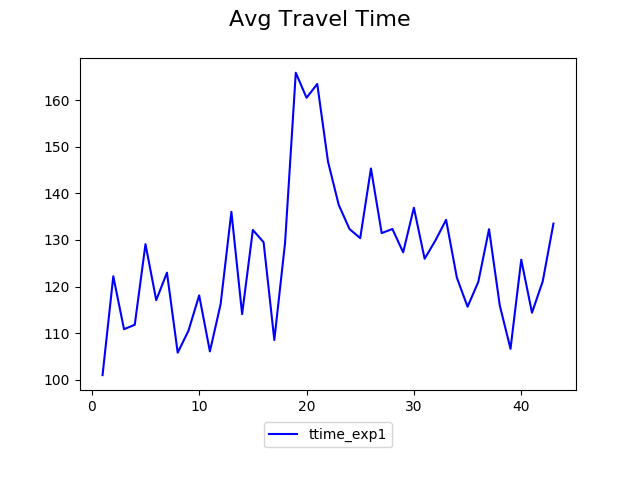
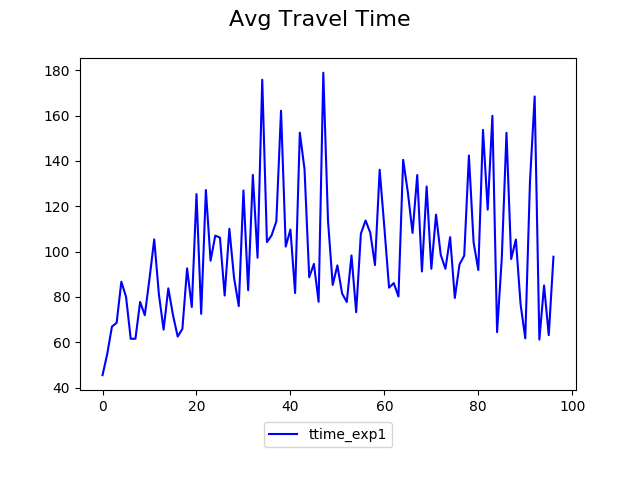
Created comparison plot for deepq1 and adaptive_deepq1

diff --git a/stats/stats_plotter.py b/stats/stats_plotter.py
@@ -49,7 +49,7 @@ def readResults(folder, prefix, statistics, numberOfRuns):
     return results
 
 def describe(results, filePrefix, column):
-    print(f"\n==== Describe {e['prefix']} - {column} ====")
+    print(f"\n==== Describe {e['experimentPrefix']} - {e['prefix']} - {column} ====")
     dfAll = pd.concat([r[filePrefix] for r in results], ignore_index=True)
     #dfAll = sAgg.aggregate(dfAll, 'step' {column: 'mean'})
     print(dfAll[column].describe())
@@ -76,10 +76,10 @@ def getMinMeanAndStd(experimentParams, filePrefix, col, func):
         std = dfAll[col].std()
         if (mean < minMean):
             minMean = mean
-            minMeanPrefix = e['prefix']
+            minMeanPrefix = f"{e['experimentPrefix']}_{e['prefix']}"
         if (std < minStd):
             minStd = std
-            minStdPrefix = e['prefix']
+            minStdPrefix = f"{e['experimentPrefix']}_{e['prefix']}"
     print(f'\n\n Min for {filePrefix}')
     print(f'Min Mean: {minMean}. Experiment: {minMeanPrefix}.')
     print(f'Min Std: {minStd}. Experiment: {minStdPrefix}.\n')
@@ -90,7 +90,7 @@ def createSinglePlotAveragesOnly(folder, label, experimentParams, file_prefix, y
     y_columns = []
     for e in experimentParams:
         dfAll = aggregateDFs(e['results'], file_prefix, 'step', y_column, 'mean')
-        new_y_col = f"{y_column}_{e['prefix']}"
+        new_y_col = f"{y_column}_{e['experimentPrefix']}_{e['prefix']}"
         dfAll.rename(columns={y_column: new_y_col}, inplace=True)
         y_columns.append(new_y_col)
         if (result is None): result = dfAll
@@ -193,11 +193,12 @@ if __name__ == '__main__':
                         {'prefix': f'{experimentPrefix}_th1qr1', 'configFile': 'configs/fpvpl_throughput1_queueratio1.cfg'},
                         {'prefix': f'{experimentPrefix}_th1qr2', 'configFile': 'configs/fpvpl_throughput1_queueratio2.cfg'}]
     numberOfRuns = 10
-    experimentPrefix = 'deepq1_adaptative'
+    experimentPrefix = 'deepq1_adaptive'
     #experimentParams = [{'prefix': f'{experimentPrefix}_th2qr1', 'configFile': 'configs/fpvpl_throughput2_queueratio1.cfg'},
     #                    {'prefix': f'{experimentPrefix}_th1qr1', 'configFile': 'configs/fpvpl_throughput1_queueratio1.cfg'},
     #                    {'prefix': f'{experimentPrefix}_th1qr2', 'configFile': 'configs/fpvpl_throughput1_queueratio2.cfg'}]
-    experimentParams = [{'prefix': 'exp1', 'configFile': 'configs/simple_config.cfg'}]
+    experimentParams = [{'experimentPrefix': 'deepq1', 'prefix': 'exp1', 'configFile': 'configs/simple_config.cfg'},
+                        {'experimentPrefix': 'deepq1_adaptive', 'prefix': 'exp1', 'configFile': 'configs/simple_config.cfg'}]
 
     numberOfRuns = 1
 
@@ -215,7 +216,7 @@ if __name__ == '__main__':
     kinds = [sAgg.PLOT_KIND_SCATTER, sAgg.PLOT_KIND_LINE]
 
     for e in experimentParams:
-        e['results'] = readResults(experimentPrefix, e['prefix'], [stats_sc, stats_ml, stats_tt], numberOfRuns)
+        e['results'] = readResults(e['experimentPrefix'], e['prefix'], [stats_sc, stats_ml, stats_tt], numberOfRuns)
 
     #createPlot(experimentPrefix, label_ql, experimentParams, numberOfRuns, file_prefixes, y_columns, kinds, aggregateDFsBy=aggregateDFsBy,
     #            groupRunsColumn = col_ml, groupRunsFunc = 'mean', groupRunsFilePrefix = stats_ml)
